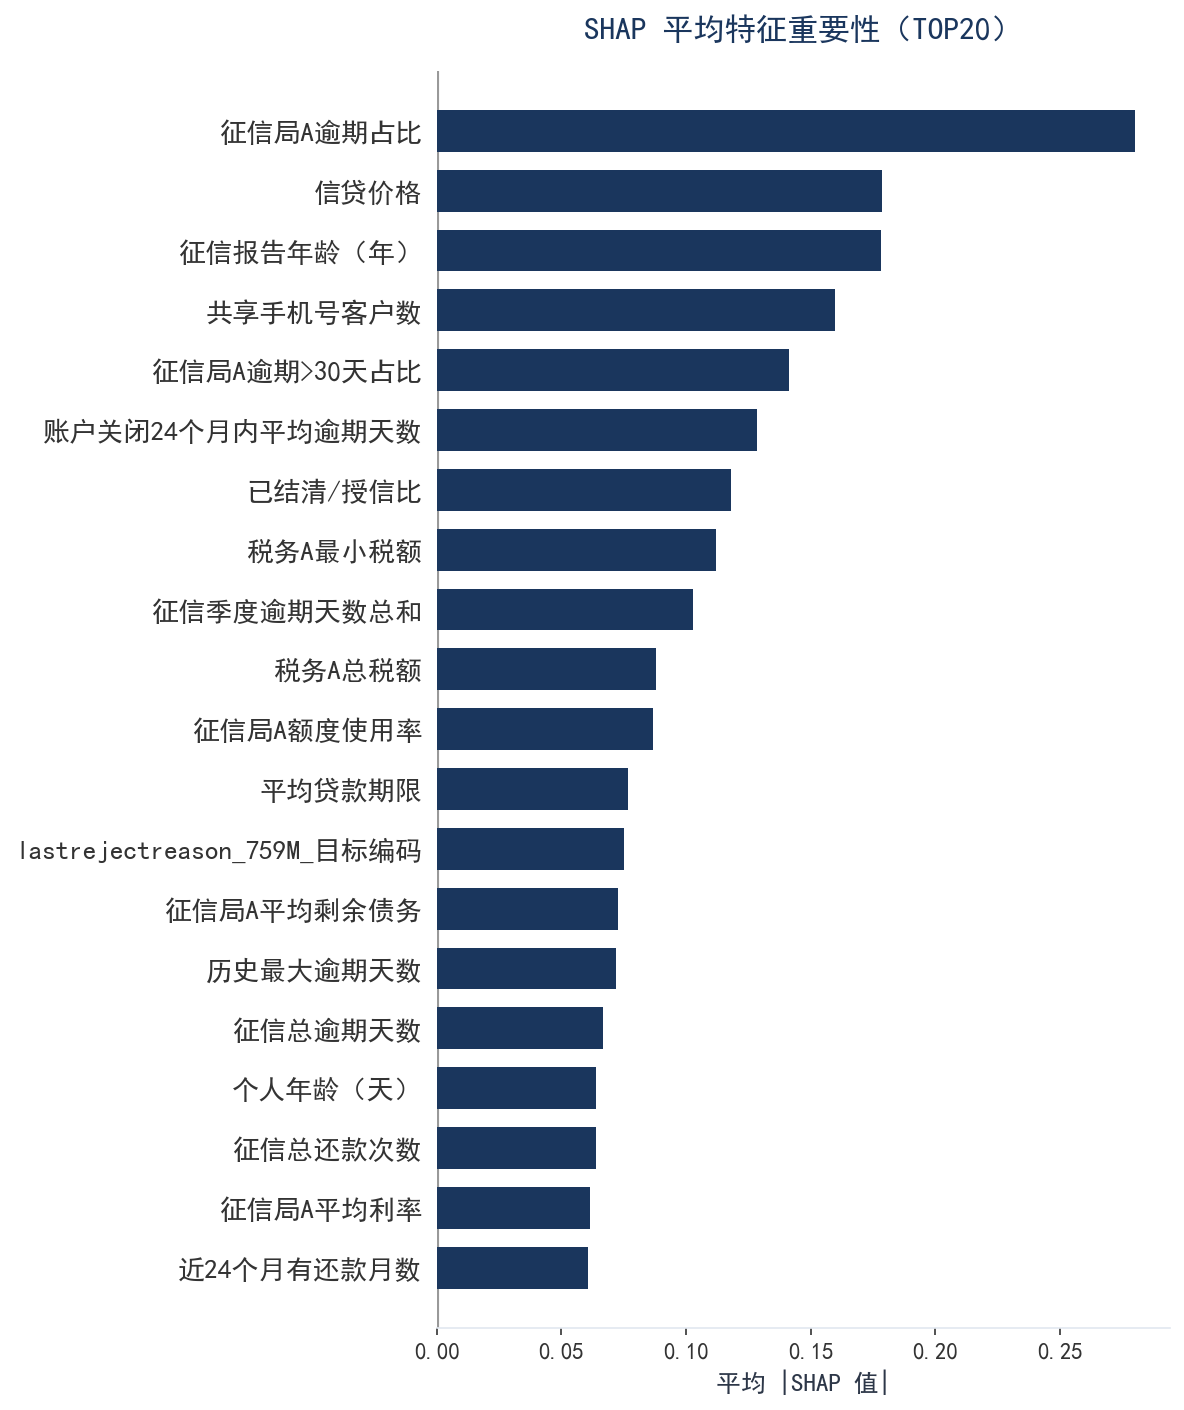
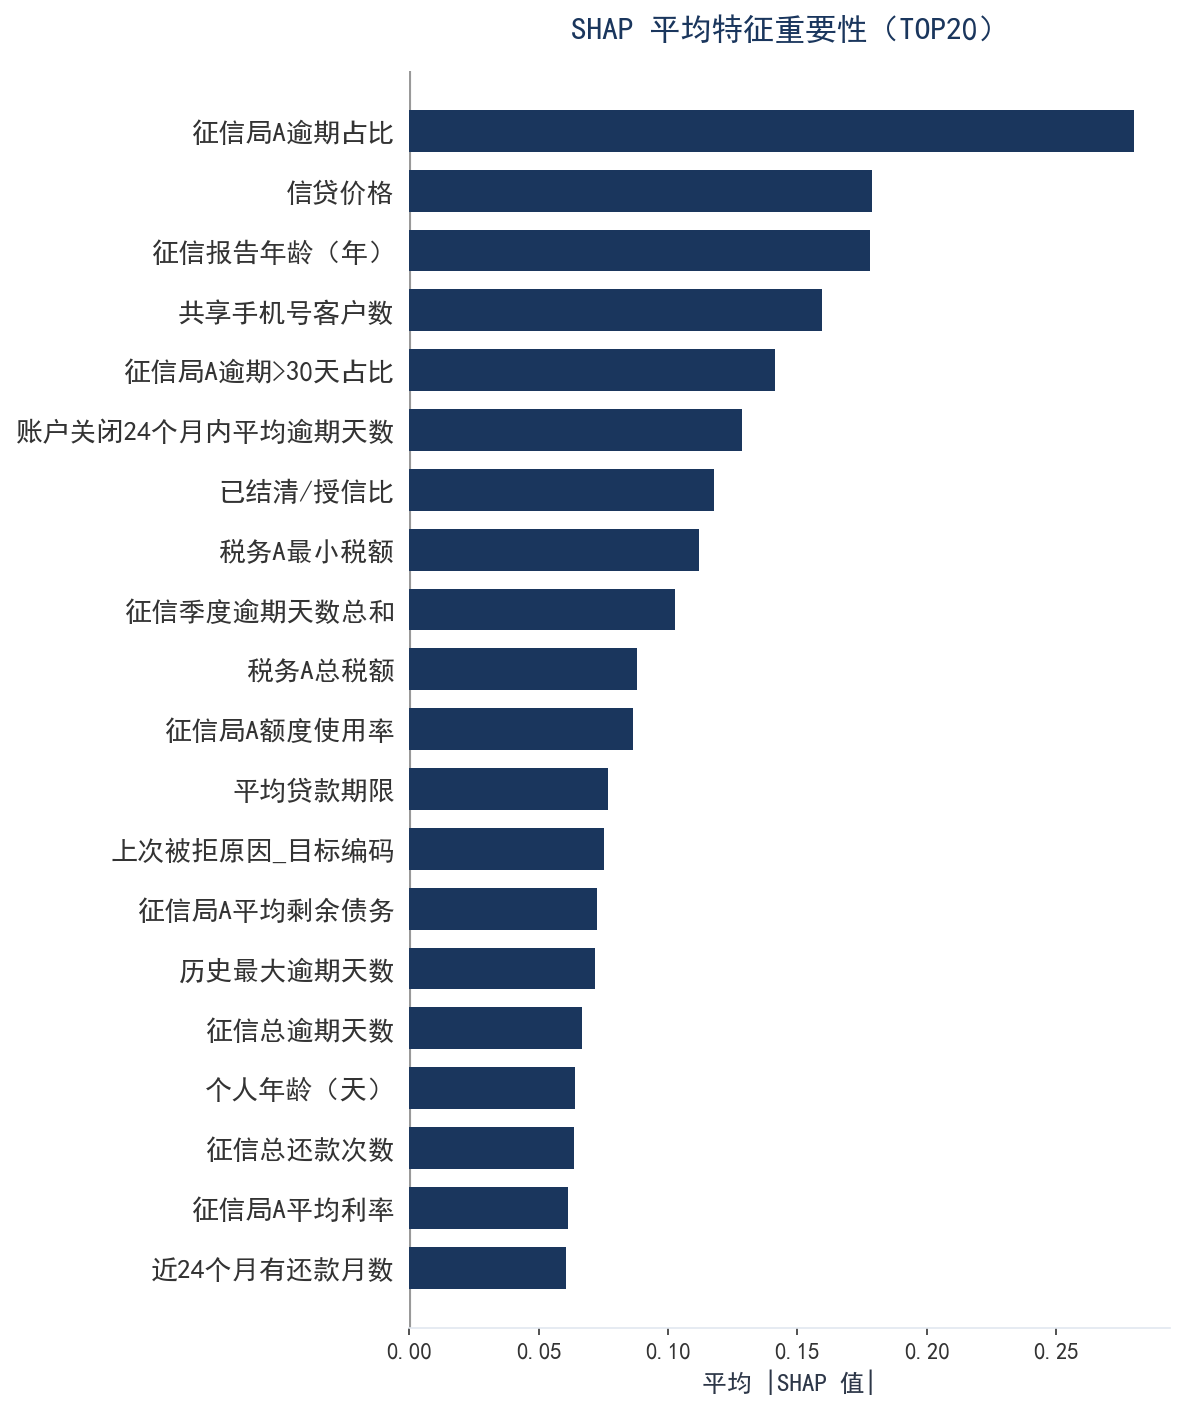
fix: SHAP section improvements
- Fix lastrejectreason_759M_te CN name mapping to 上次被拒原因_目标编码
- Remove SHAP dependence plot section
- Remove sample comparison chart
- Keep global importance in two-col layout

diff --git a/docs/index.html b/docs/index.html
@@ -745,16 +745,6 @@
                     </ul>
                 </div>
 
-                <!-- 关键特征依赖关系 -->
-                <h3 class="subsection-title mt-3">关键特征依赖关系</h3>
-                <p>Dependence Plot 展示了 TOP3 最重要特征的取值与 SHAP 贡献值之间的非线性关系，帮助理解模型如何基于这些特征做出决策。</p>
-                <div class="image-card full-width-image">
-                    <img src="images/02_shap_dependence_top3.png" alt="SHAP Dependence Plot" loading="lazy">
-                    <div class="image-caption">
-                        <strong>TOP3 特征 SHAP 依赖关系</strong> — 横轴为特征值，纵轴为该特征对违约概率的贡献。颜色由 SHAP 值着色（红=增加风险）。可观察到明显的阈值效应：当逾期占比 > 0.02 时，风险贡献陡增
-                    </div>
-                </div>
-
                 <!-- 个体样本解释 -->
                 <h3 class="subsection-title mt-3">个体样本解释（典型案例）</h3>
                 <p>以下选取了三个具有代表性的样本，通过 SHAP Waterfall 图展示模型是如何从基础概率逐步推演到最终预测结果的。每个条形代表一个特征的贡献，红色向上（增加风险），蓝色向下（降低风险）。</p>
@@ -783,13 +773,6 @@
                             预测概率 <span style="color:#f6ad55">42.9%</span> | 实际：正常<br>
                             <small>账户关闭24个月内平均逾期13天、共享手机号客户数5人，导致模型过度警觉；但客户实际未违约，提示模型在该场景下可能偏保守</small>
                         </div>
-                    </div>
-                </div>
-
-                <div class="image-card full-width-image mt-2">
-                    <img src="images/02_shap_sample_comparison.png" alt="样本对比" loading="lazy">
-                    <div class="image-caption">
-                        <strong>三个样本的 SHAP 贡献对比</strong> — 横向对比三个样本的 TOP8 特征贡献。案例A和B特征影响方向完全相反；案例C虽然实际正常，但逾期历史导致模型给出中等风险评分
                     </div>
                 </div>
 
